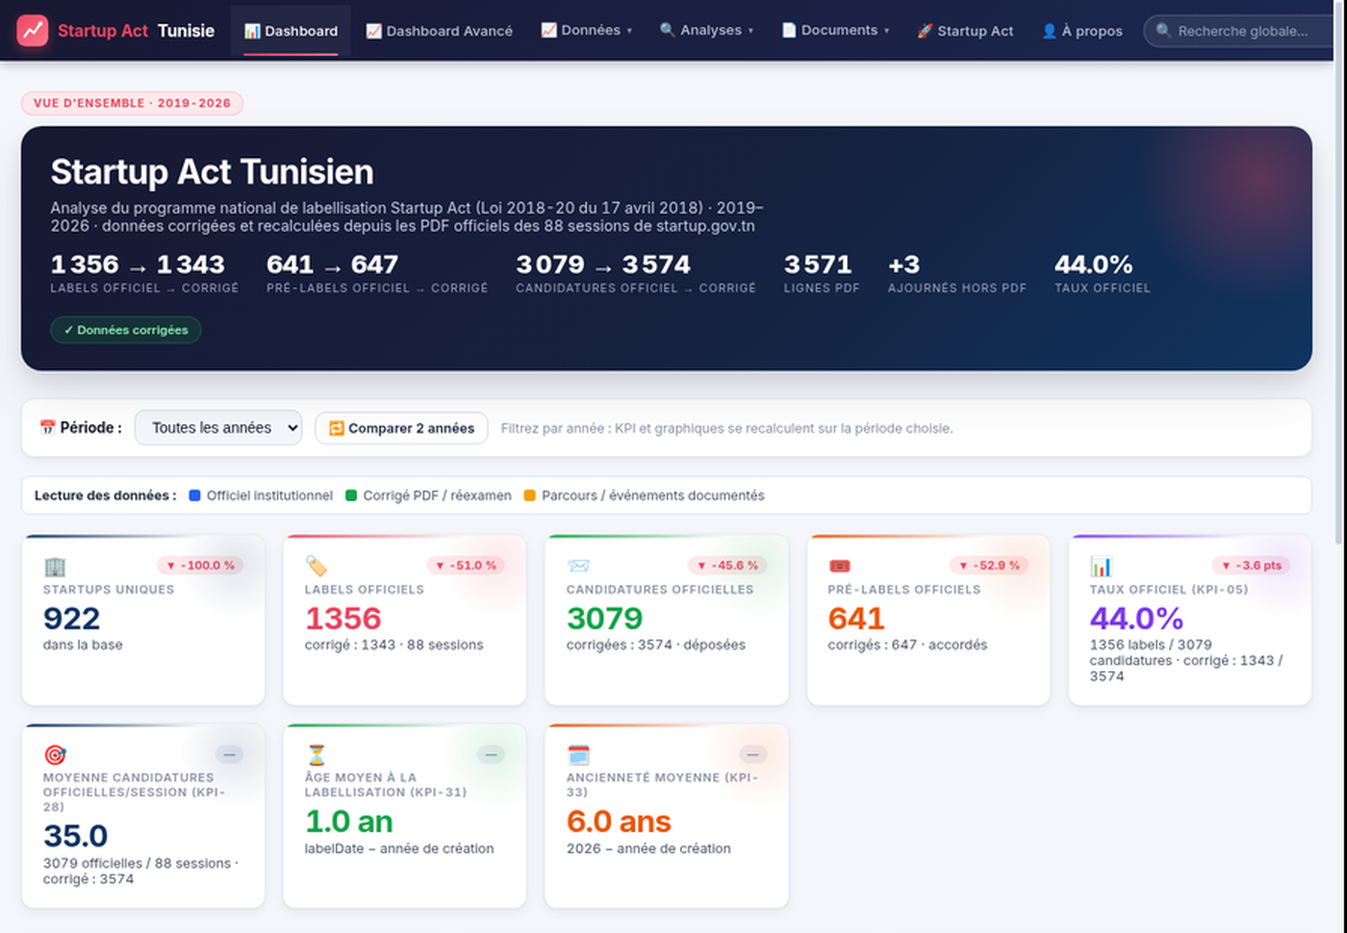
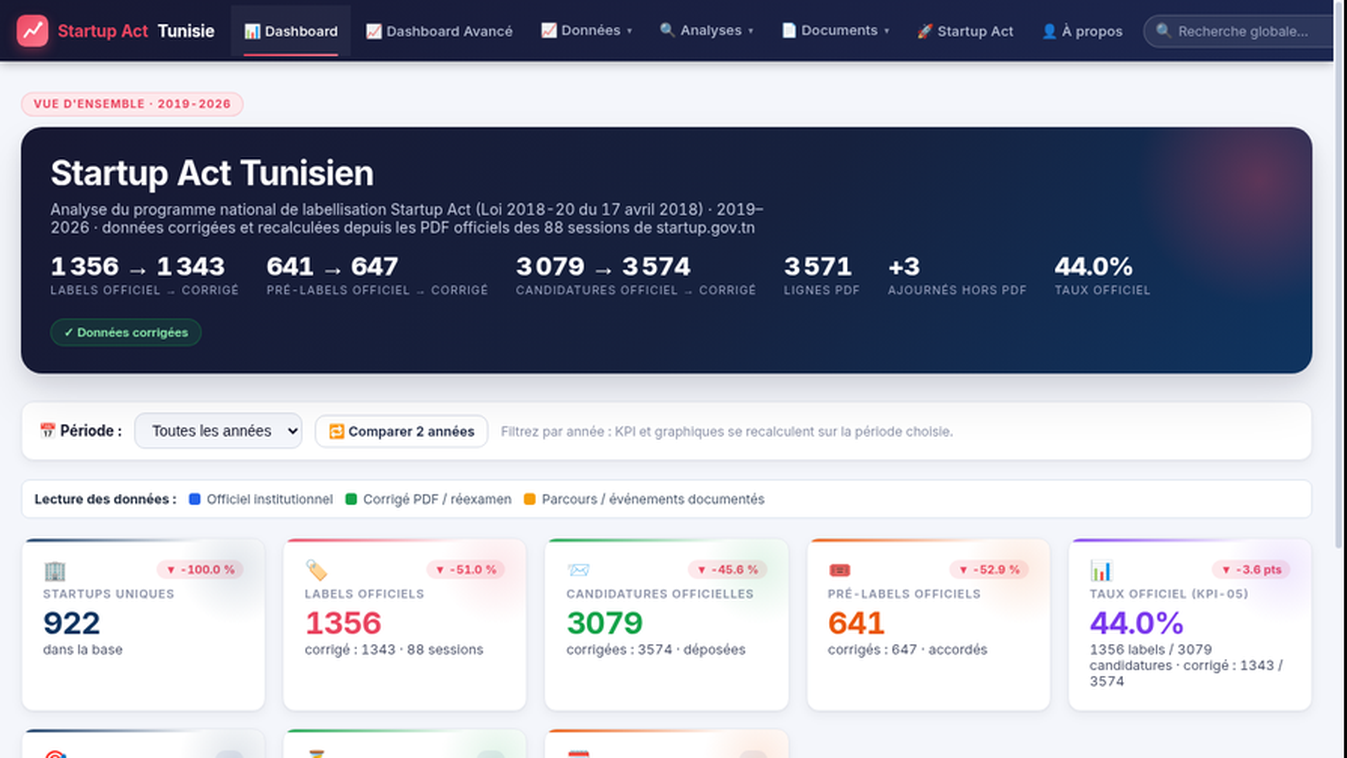
Improve SEO and dashboard preview

diff --git a/index.html b/index.html
@@ -16,9 +16,9 @@
     });
   </script>
   <meta name="viewport" content="width=device-width, initial-scale=1.0">
-  <title>Faker BEN NOOMEN · Développeur Full Stack · Veille &amp; Data | Tunisie</title>
+  <title>Faker Ben Noomen | Développeur Full Stack en Tunisie | Data & IA</title>
   <meta name="author" content="Faker Ben Noomen (Ben Noomen Faker)">
-  <meta name="description" content="Faker BEN NOOMEN — Développeur Full Stack, étudiant en Mastère Professionnel Veille &amp; Intelligence Compétitive (VIC) — ESEN Manouba × ISCAE. React, NestJS, Spring Boot, MongoDB, PostgreSQL, SQL, Oracle Database, Machine Learning, veille technologique et concurrentielle. CV et projets déployés.">
+  <meta name="description" content="Faker Ben Noomen, développeur Full Stack en Tunisie : React, NestJS, Spring Boot, SQL, Oracle, data, IA et veille stratégique. Découvrez mes projets et mon CV.">
   <meta name="keywords" content="Faker Ben Noomen, Ben Noomen Faker, Faker Bennoomen, faker bennoomen, développeur full stack Tunisie, veille et intelligence compétitive, VIC, ESEN Manouba, ISCAE Manouba, data, IA, Spring Boot, Spring Cloud, NestJS, Node.js, Express.js, React.js, Redux Toolkit, Axios, Next.js, React Native, Tailwind CSS, MongoDB, MySQL, PostgreSQL, SQL, Oracle Database, JPA, Hibernate, TypeORM, Prisma, Machine Learning, Web Scraping, Ollama, Mistral, Groq, Streamlit, Docker, GitHub Actions, Cloudinary, Render, Startup Act Tunisie, veille stratégique, intelligence compétitive, études quantitatives, BIAT, Hôpital Habib Thameur">
   <meta name="robots" content="index, follow, max-image-preview:large">
   <meta name="language" content="fr">
@@ -27,23 +27,29 @@
   <meta name="google-site-verification" content="Vmqe21RCqN73BNENFRF7JxdC_sQP_bDiPVAbf21vdCU" />
   <meta name="msvalidate.01" content="EEF68F9AFDF19778036B97E94F7D2AA9" />
   <link rel="canonical" href="https://bennoomenfaker.github.io/">
+  <link rel="alternate" hreflang="fr" href="https://bennoomenfaker.github.io/">
+  <link rel="alternate" hreflang="en" href="https://bennoomenfaker.github.io/index-en.html">
+  <link rel="alternate" hreflang="x-default" href="https://bennoomenfaker.github.io/">
 
   <!-- Open Graph -->
   <meta property="og:type" content="website">
   <meta property="og:site_name" content="Faker BEN NOOMEN">
   <meta property="og:locale" content="fr_TN">
+  <meta property="og:locale:alternate" content="en_US">
   <meta property="og:url" content="https://bennoomenfaker.github.io/">
-  <meta property="og:title" content="Faker BEN NOOMEN · Développeur Full Stack · Veille &amp; Data | Tunisie">
-  <meta property="og:description" content="Développeur Full Stack · Veille &amp; Intelligence Compétitive · Data &amp; IA. Étudiant en Mastère Professionnel VIC — ESEN Manouba × ISCAE.">
+  <meta property="og:title" content="Faker Ben Noomen | Développeur Full Stack en Tunisie | Data & IA">
+  <meta property="og:description" content="Faker Ben Noomen, développeur Full Stack en Tunisie : React, NestJS, Spring Boot, SQL, Oracle, data, IA et veille stratégique. Découvrez mes projets et mon CV.">
   <meta property="og:image" content="https://bennoomenfaker.github.io/images/screenshot-startup-act-dashboard.png">
   <meta property="og:image:width" content="1347">
-  <meta property="og:image:height" content="933">
+  <meta property="og:image:height" content="758">
+  <meta property="og:image:alt" content="Dashboard Startup Act Tunisie avec navbar et indicateurs de labellisation">
 
   <!-- Twitter -->
   <meta name="twitter:card" content="summary_large_image">
-  <meta name="twitter:title" content="Faker BEN NOOMEN · Développeur Full Stack · Veille &amp; Data | Tunisie">
-  <meta name="twitter:description" content="Développeur Full Stack · Veille &amp; Intelligence Compétitive · Data &amp; IA. Étudiant en Mastère Professionnel VIC — ESEN Manouba × ISCAE.">
+  <meta name="twitter:title" content="Faker Ben Noomen | Développeur Full Stack en Tunisie | Data & IA">
+  <meta name="twitter:description" content="Faker Ben Noomen, développeur Full Stack en Tunisie : React, NestJS, Spring Boot, SQL, Oracle, data, IA et veille stratégique. Découvrez mes projets et mon CV.">
   <meta name="twitter:image" content="https://bennoomenfaker.github.io/images/screenshot-startup-act-dashboard.png">
+  <meta name="twitter:image:alt" content="Dashboard Startup Act Tunisie avec navbar et indicateurs de labellisation">
 
   <!-- Structured data (Schema.org) -->
   <script type="application/ld+json">
@@ -55,7 +61,7 @@
     "givenName": "Faker",
     "familyName": "Ben Noomen",
     "jobTitle": "Développeur Full Stack",
-    "description": "Développeur Full Stack, étudiant en Mastère Professionnel Veille & Intelligence Compétitive (VIC) à l'ESEN Manouba en collaboration avec l'ISCAE Manouba. Titulaire d'un Master en Informatique de Gestion (Digitalisation des Services). Passionné par la conception de solutions web complètes et la veille technologique et concurrentielle.",
+    "description": "Développeur Full Stack en Tunisie, étudiant en Mastère Professionnel Veille & Intelligence Compétitive (VIC) à l’ESEN Manouba en collaboration avec l’ISCAE Manouba. Passionné par la conception de solutions web, la data, l’IA et la veille stratégique.",
     "url": "https://bennoomenfaker.github.io/",
     "image": "https://bennoomenfaker.github.io/images/faker.jpeg",
     "email": "mailto:fakerbennoomen@gmail.com",
@@ -80,6 +86,17 @@
       "https://www.kaggle.com/fakerbennoomen",
       "https://atvic.wordpress.com/"
     ]
+  }
+  </script>
+  <script type="application/ld+json">
+  {
+    "@context": "https://schema.org",
+    "@type": "WebSite",
+    "@id": "https://bennoomenfaker.github.io/#website",
+    "url": "https://bennoomenfaker.github.io/",
+    "name": "Faker Ben Noomen Portfolio",
+    "inLanguage": "fr",
+    "publisher": { "@type": "Person", "name": "Faker Ben Noomen", "url": "https://bennoomenfaker.github.io/" }
   }
   </script>
 
@@ -257,9 +274,9 @@
     .stat .v{display:block;font-family:'Roboto Mono',monospace;font-size:1.3rem;font-weight:800;color:var(--primary);line-height:1.1;white-space:nowrap}
     .stat .l{display:block;margin-top:4px;font-size:.72rem;color:var(--text-muted);line-height:1.35}
     .stats-note{margin-top:10px;font-size:.78rem;color:var(--text-muted);line-height:1.55}
-    .project .shot-wrap{position:relative;overflow:hidden;aspect-ratio:16/10;border-bottom:1px solid var(--border)}
+    .project .shot-wrap{position:relative;overflow:hidden;aspect-ratio:16/9;border-bottom:1px solid var(--border);background:#eef1f7}
     .project .shot{width:100%;height:100%;object-fit:cover;transition:transform .4s}
-    .project:hover .shot{transform:scale(1.04)}
+    .project:hover .shot{transform:none}
     .project .shot-wrap.placeholder{display:grid;place-items:center;background:linear-gradient(135deg,rgba(14,165,233,.28),rgba(16,185,129,.22));position:relative}
     .project .shot-wrap.placeholder::before{content:"";position:absolute;inset:0;background:radial-gradient(300px 160px at 80% 10%,rgba(255,255,255,.14),transparent 70%)}
     .project .shot-wrap.placeholder svg{width:56px;height:56px;color:var(--text);opacity:.9}

diff --git a/index-en.html b/index-en.html
@@ -16,9 +16,9 @@
     });
   </script>
   <meta name="viewport" content="width=device-width, initial-scale=1.0">
-  <title>Faker BEN NOOMEN · Full Stack Developer · Intelligence &amp; Data | Tunisia</title>
+  <title>Faker Ben Noomen | Full Stack Developer in Tunisia | Data & AI</title>
   <meta name="author" content="Faker Ben Noomen (Ben Noomen Faker)">
-  <meta name="description" content="Faker BEN NOOMEN — Full Stack Developer and Competitive Intelligence student at ESEN Manouba × ISCAE. React, NestJS, Spring Boot, MongoDB, PostgreSQL, SQL, Oracle Database, Machine Learning, strategic intelligence and data. CV and deployed projects.">
+  <meta name="description" content="Faker Ben Noomen, Full Stack Developer in Tunisia: React, NestJS, Spring Boot, SQL, Oracle, data, AI and competitive intelligence. Explore my projects and CV.">
   <meta name="keywords" content="Faker Ben Noomen, Ben Noomen Faker, Faker Bennoomen, faker bennoomen, full stack developer Tunisia, competitive intelligence, VIC, ESEN Manouba, ISCAE Manouba, data, AI, Spring Boot, Spring Cloud, NestJS, Node.js, Express.js, React.js, Redux Toolkit, Axios, Next.js, React Native, Tailwind CSS, MongoDB, MySQL, PostgreSQL, SQL, Oracle Database, JPA, Hibernate, TypeORM, Prisma, Machine Learning, Web Scraping, Ollama, Mistral, Groq, Streamlit, Docker, GitHub Actions, Cloudinary, Render, Startup Act Tunisia, veille stratégique, intelligence compétitive, études quantitatives, BIAT, Habib Thameur Hospital">
   <meta name="robots" content="index, follow, max-image-preview:large">
   <meta name="language" content="en">
@@ -29,23 +29,27 @@
   <link rel="canonical" href="https://bennoomenfaker.github.io/index-en.html">
   <link rel="alternate" hreflang="fr" href="https://bennoomenfaker.github.io/">
   <link rel="alternate" hreflang="en" href="https://bennoomenfaker.github.io/index-en.html">
+  <link rel="alternate" hreflang="x-default" href="https://bennoomenfaker.github.io/">
 
   <!-- Open Graph -->
   <meta property="og:type" content="website">
   <meta property="og:site_name" content="Faker BEN NOOMEN">
   <meta property="og:locale" content="en_US">
-  <meta property="og:url" content="https://bennoomenfaker.github.io/">
-  <meta property="og:title" content="Faker BEN NOOMEN · Full Stack Developer · Intelligence &amp; Data | Tunisia">
-  <meta property="og:description" content="Full Stack Developer · Competitive Intelligence · Data &amp; AI. Professional Master’s student in VIC — ESEN Manouba × ISCAE.">
+  <meta property="og:locale:alternate" content="fr_TN">
+  <meta property="og:url" content="https://bennoomenfaker.github.io/index-en.html">
+  <meta property="og:title" content="Faker Ben Noomen | Full Stack Developer in Tunisia | Data & AI">
+  <meta property="og:description" content="Faker Ben Noomen, Full Stack Developer in Tunisia: React, NestJS, Spring Boot, SQL, Oracle, data, AI and competitive intelligence. Explore my projects and CV.">
   <meta property="og:image" content="https://bennoomenfaker.github.io/images/screenshot-startup-act-dashboard.png">
   <meta property="og:image:width" content="1347">
-  <meta property="og:image:height" content="933">
+  <meta property="og:image:height" content="758">
+  <meta property="og:image:alt" content="Tunisia Startup Act dashboard with navigation bar and labelling indicators">
 
   <!-- Twitter -->
   <meta name="twitter:card" content="summary_large_image">
-  <meta name="twitter:title" content="Faker BEN NOOMEN · Full Stack Developer · Intelligence &amp; Data | Tunisia">
-  <meta name="twitter:description" content="Full Stack Developer · Competitive Intelligence · Data &amp; AI. Professional Master’s student in VIC — ESEN Manouba × ISCAE.">
+  <meta name="twitter:title" content="Faker Ben Noomen | Full Stack Developer in Tunisia | Data & AI">
+  <meta name="twitter:description" content="Faker Ben Noomen, Full Stack Developer in Tunisia: React, NestJS, Spring Boot, SQL, Oracle, data, AI and competitive intelligence. Explore my projects and CV.">
   <meta name="twitter:image" content="https://bennoomenfaker.github.io/images/screenshot-startup-act-dashboard.png">
+  <meta name="twitter:image:alt" content="Tunisia Startup Act dashboard with navigation bar and labelling indicators">
 
   <!-- Structured data (Schema.org) -->
   <script type="application/ld+json">
@@ -57,7 +61,7 @@
     "givenName": "Faker",
     "familyName": "Ben Noomen",
     "jobTitle": "Full Stack Developer",
-    "description": "Full Stack Developer, Professional Master’s student Competitive Intelligence (VIC) à l'ESEN Manouba en collaboration avec l'ISCAE Manouba. Holder of a Master’s degree in Management Information Systems (Digitalisation des Services). Passionate about building complete web solutions et strategic intelligence.",
+    "description": "Full Stack Developer in Tunisia and Professional Master’s student in Competitive Intelligence at ESEN Manouba in collaboration with ISCAE Manouba. Passionate about web solutions, data, AI and strategic intelligence.",
     "url": "https://bennoomenfaker.github.io/",
     "image": "https://bennoomenfaker.github.io/images/faker.jpeg",
     "email": "mailto:fakerbennoomen@gmail.com",
@@ -82,6 +86,17 @@
       "https://www.kaggle.com/fakerbennoomen",
       "https://atvic.wordpress.com/"
     ]
+  }
+  </script>
+  <script type="application/ld+json">
+  {
+    "@context": "https://schema.org",
+    "@type": "WebSite",
+    "@id": "https://bennoomenfaker.github.io/index-en.html#website",
+    "url": "https://bennoomenfaker.github.io/index-en.html",
+    "name": "Faker Ben Noomen Portfolio",
+    "inLanguage": "en",
+    "publisher": { "@type": "Person", "name": "Faker Ben Noomen", "url": "https://bennoomenfaker.github.io/" }
   }
   </script>
 
@@ -259,9 +274,9 @@
     .stat .v{display:block;font-family:'Roboto Mono',monospace;font-size:1.3rem;font-weight:800;color:var(--primary);line-height:1.1;white-space:nowrap}
     .stat .l{display:block;margin-top:4px;font-size:.72rem;color:var(--text-muted);line-height:1.35}
     .stats-note{margin-top:10px;font-size:.78rem;color:var(--text-muted);line-height:1.55}
-    .project .shot-wrap{position:relative;overflow:hidden;aspect-ratio:16/10;border-bottom:1px solid var(--border)}
+    .project .shot-wrap{position:relative;overflow:hidden;aspect-ratio:16/9;border-bottom:1px solid var(--border);background:#eef1f7}
     .project .shot{width:100%;height:100%;object-fit:cover;transition:transform .4s}
-    .project:hover .shot{transform:scale(1.04)}
+    .project:hover .shot{transform:none}
     .project .shot-wrap.placeholder{display:grid;place-items:center;background:linear-gradient(135deg,rgba(14,165,233,.28),rgba(16,185,129,.22));position:relative}
     .project .shot-wrap.placeholder::before{content:"";position:absolute;inset:0;background:radial-gradient(300px 160px at 80% 10%,rgba(255,255,255,.14),transparent 70%)}
     .project .shot-wrap.placeholder svg{width:56px;height:56px;color:var(--text);opacity:.9}
